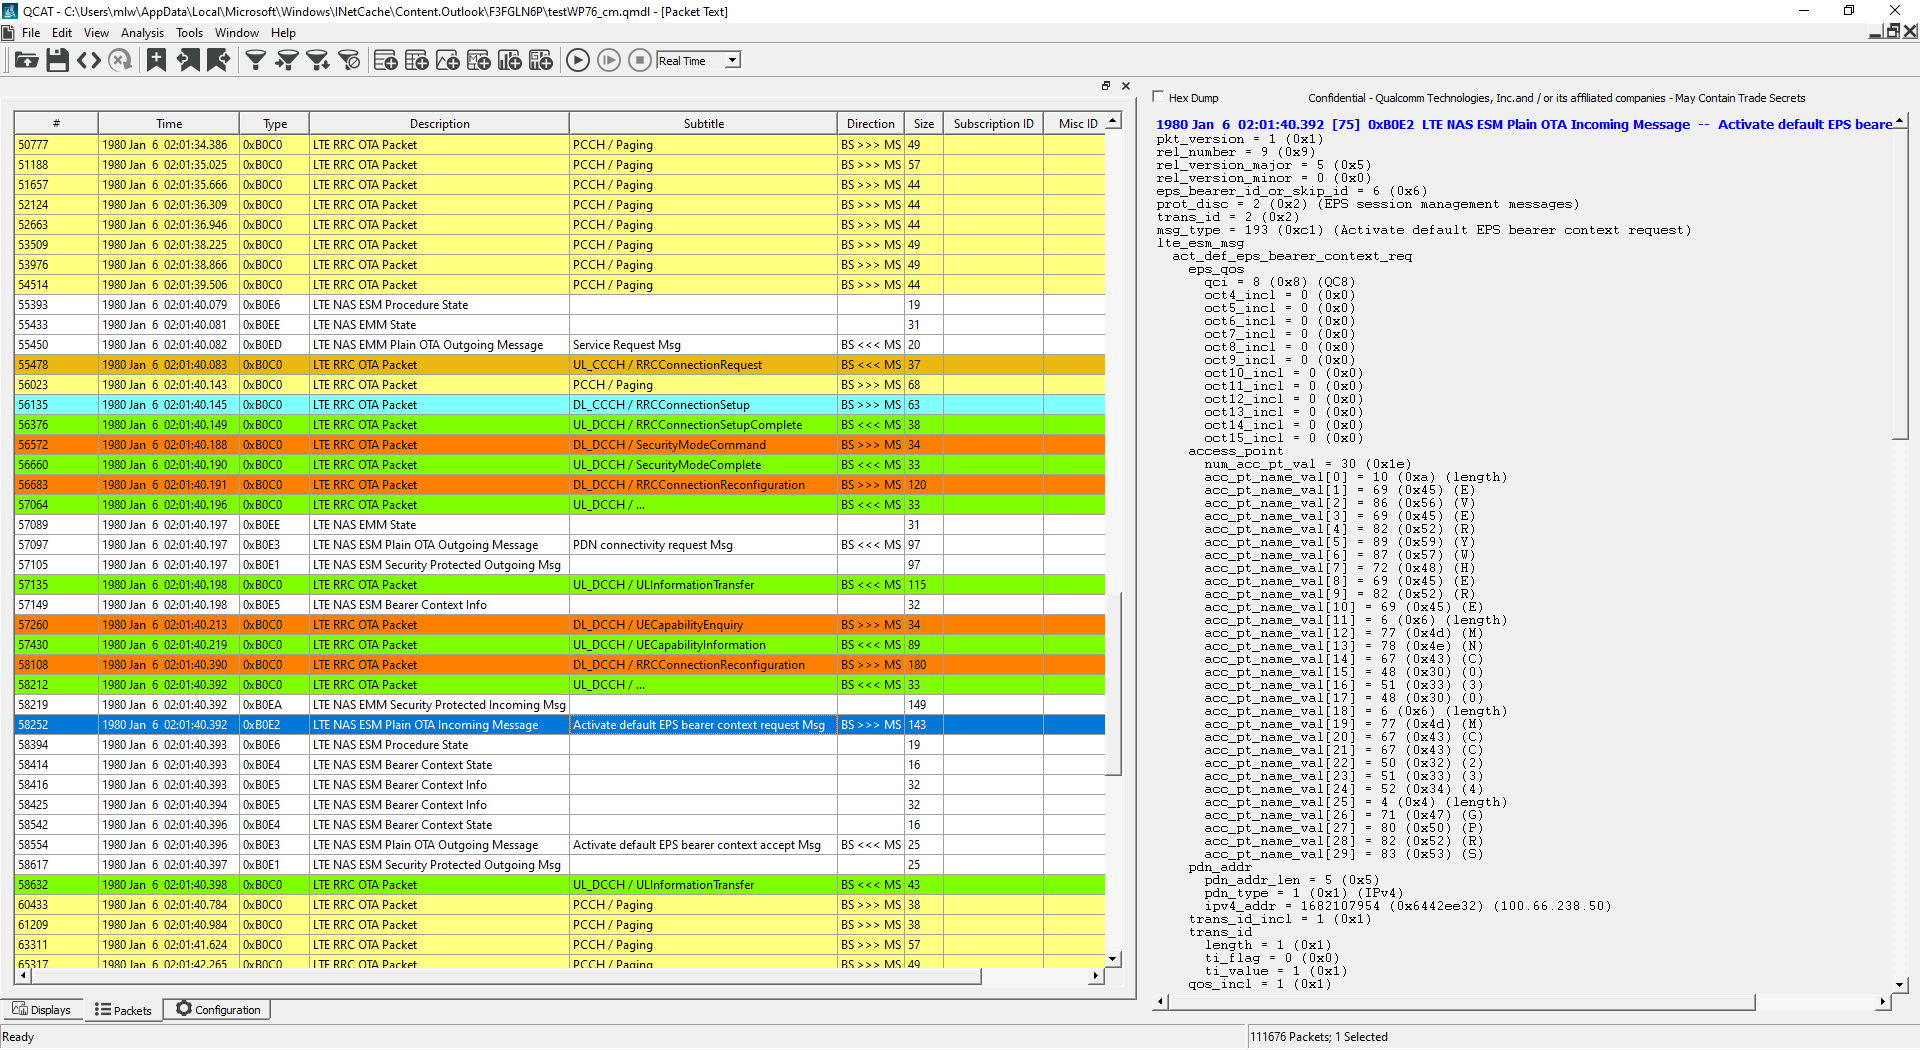
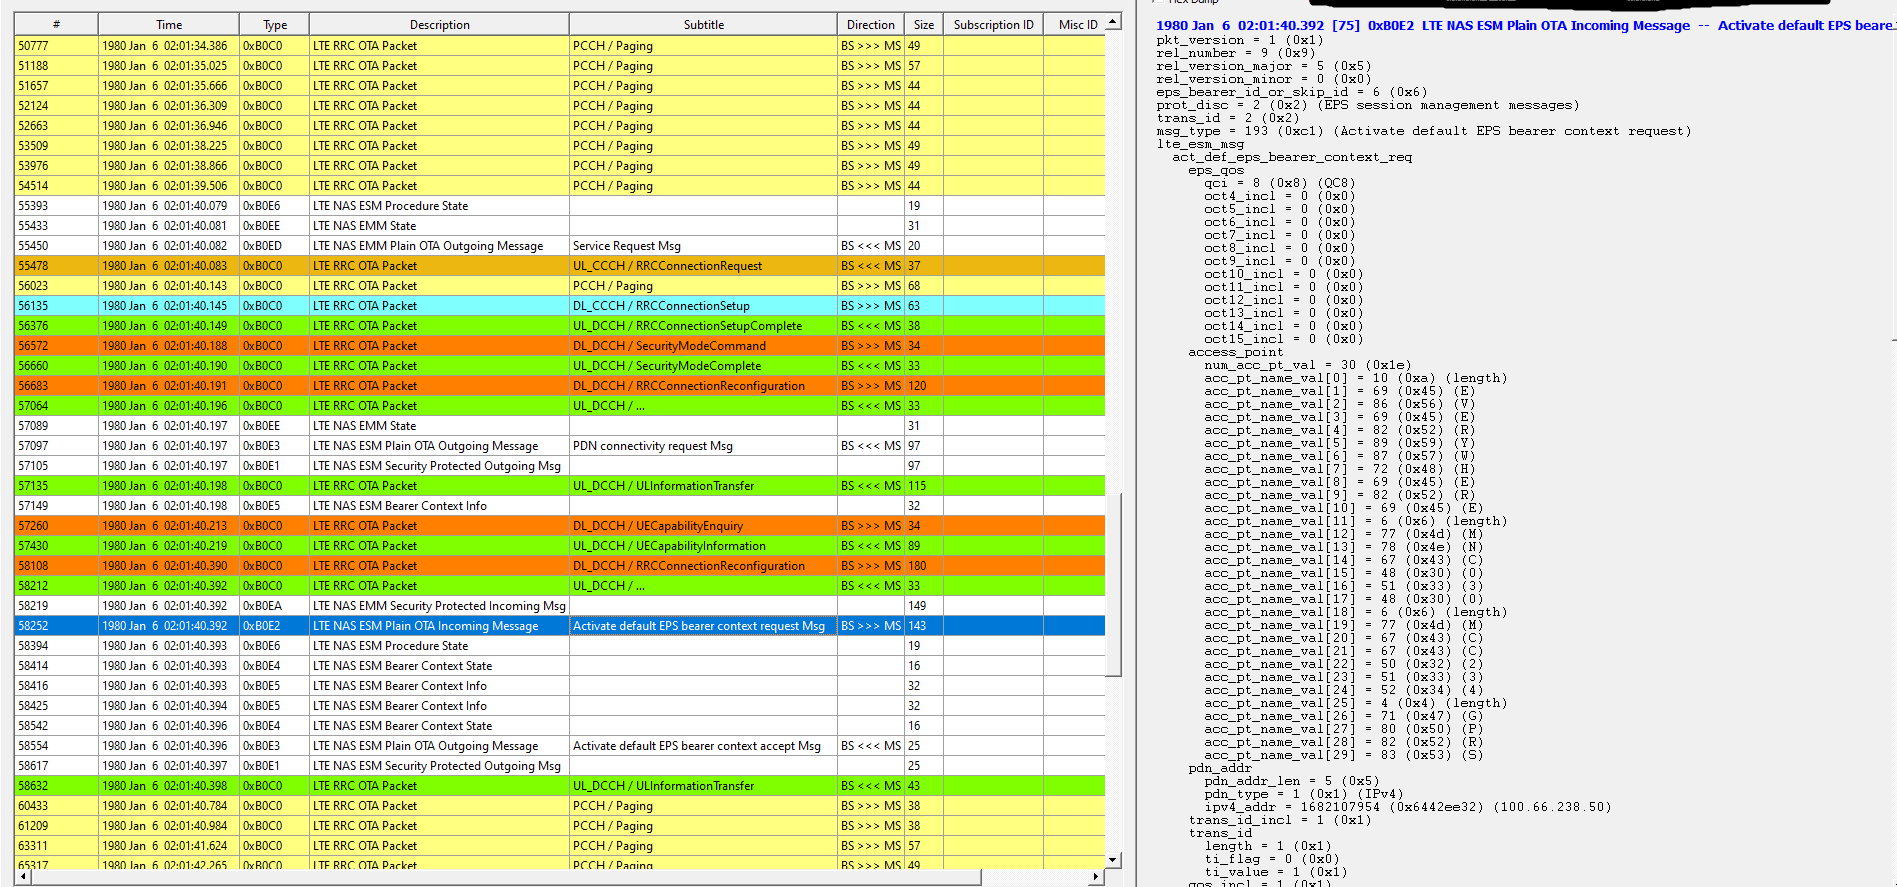
picture updates

diff --git a/WP76_pppAndCmVsContextSupport/ppp/WP_PPP.md b/WP76_pppAndCmVsContextSupport/ppp/WP_PPP.md
@@ -59,7 +59,7 @@ AT+CGPADDR
 
 [Raw Qualcomm debug data](./testWP76_pppUC2.qmdl)
 
-[Sierra DM log decode](./.png)
+![Sierra DM log decode](./qualcommLogScreenGrab_pppConnect.png)
 
 ## Capture of pppd connection
 ```
